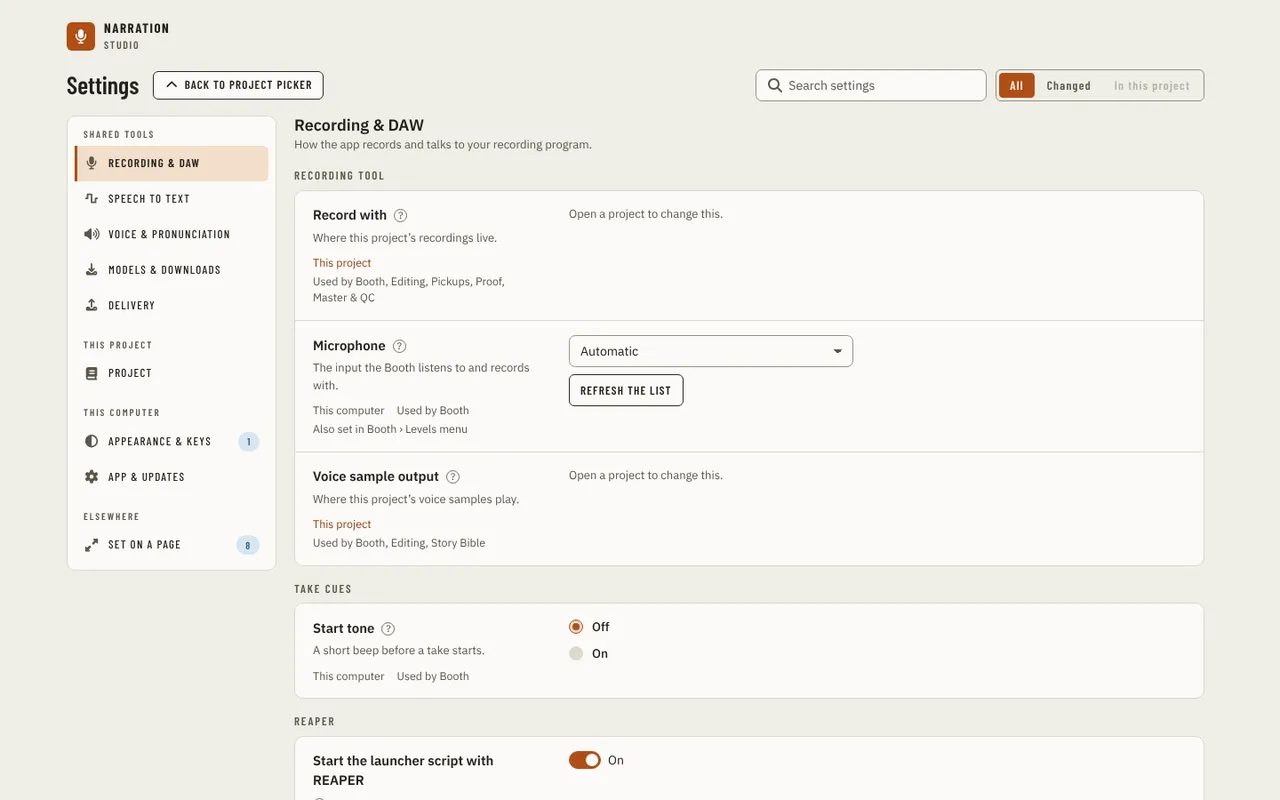
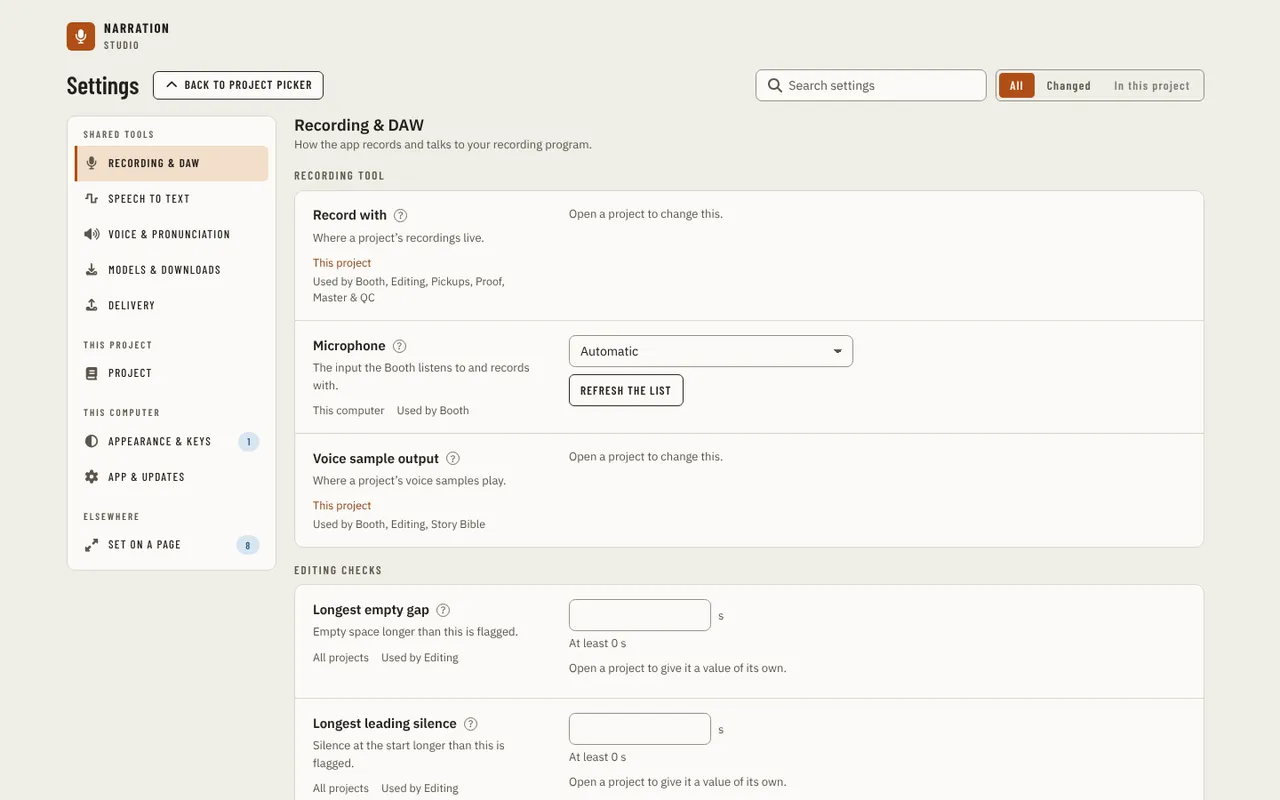
fix(settings): no-project Settings copy no longer assumes a project or a rail
With no project, a project row's description says "a project's", "Also
set in" is left out (every place it names is a page or the shell), the
Project and Delivery intros do not speak of an open project, and a
project-only host field shows its reason with no value.

Refs #3024

Claude-Session: https://claude.ai/code/session_01EBTykhXTzuEgSgWxgiPGDq

diff --git a/src/studio/ui/src/components/settings/page/SettingsPage.noProject.test.tsx b/src/studio/ui/src/components/settings/page/SettingsPage.noProject.test.tsx
@@ -180,18 +180,6 @@ describe('Settings with no project: the page', () => {
     expect(go).toHaveBeenCalledWith('/');
   });
 
-  it('a project row that is a host field is drawn disabled, not hidden', async () => {
-    await renderPage();
-    pick('Project');
-    const row = await waitFor(() => {
-      const found = rowEl('project.wordsPerPage');
-      if (!found) throw new Error('no row');
-      return found;
-    });
-    expect(within(row).getByText(NEEDS_PROJECT_REASON)).toBeTruthy();
-    expect((within(row).getByRole('textbox') as HTMLInputElement).disabled).toBe(true);
-  });
-
   it('a project that is open is unchanged: no reason, controls live', async () => {
     const api = createMockApi();
     await renderPage({ api });
@@ -213,7 +201,7 @@ describe('Settings with no project: the page', () => {
     expect(filter.getAttribute('aria-pressed')).toBe('false');
   });
 
-  it('ties the reason to the disabled control, so a screen reader announces it', async () => {
+  it('a project-only host field is drawn as its reason, with no value that could read as a real one', async () => {
     await renderPage();
     pick('Project');
     const row = await waitFor(() => {
@@ -221,12 +209,31 @@ describe('Settings with no project: the page', () => {
       if (!found) throw new Error('no row');
       return found;
     });
-    const control = within(row).getByRole('textbox');
-    const described = control
-      .getAttribute('aria-describedby')!
-      .split(' ')
-      .map((id) => document.getElementById(id)?.textContent);
-    expect(described).toContain(NEEDS_PROJECT_REASON);
+    expect(within(row).getByText(NEEDS_PROJECT_REASON)).toBeTruthy();
+    expect(within(row).queryByRole('textbox')).toBeNull();
+    expect(row.textContent).not.toContain('250');
+  });
+
+  it("says nothing of the navigation rail, the header or a page's control as another place to set a setting", async () => {
+    await renderPage();
+    pick('Appearance & keys');
+    const row = await waitFor(() => {
+      const found = rowEl('look.theme');
+      if (!found) throw new Error('no row');
+      return found;
+    });
+    expect(row.textContent).not.toMatch(/Also set in/);
+    expect(row.textContent).not.toMatch(/navigation rail/);
+    expect(document.body.textContent).not.toMatch(/navigation rail/);
+  });
+
+  it('introduces the Project and Delivery categories without an open project', async () => {
+    await renderPage();
+    pick('Project');
+    await screen.findByText('Settings for a project. Open a project to change them.');
+    expect(document.body.textContent).not.toContain('The open project’s');
+    pick('Delivery');
+    await screen.findByText('The standard a project is judged against, and the limits it carries.');
   });
 
   it('describes a project row without saying "this project" when none is open', async () => {
@@ -237,6 +244,13 @@ describe('Settings with no project: the page', () => {
       return found;
     });
     expect(row.textContent).not.toContain('Where this project');
+    pick('Project');
+    const manuscript = await waitFor(() => {
+      const found = rowEl('project.manuscript');
+      if (!found) throw new Error('no row');
+      return found;
+    });
+    expect(manuscript.textContent).toContain('The text a project is recorded from.');
     expect(row.textContent).toContain('Where a project’s recordings live.');
   });
 });

diff --git a/src/studio/ui/src/components/settings/row/SettingRowView.tsx b/src/studio/ui/src/components/settings/row/SettingRowView.tsx
@@ -135,12 +135,13 @@ export function SettingRowView({ row, children, flash, wide }: { row: SettingMet
           {changed && <StatusBadge tone="info" label="Changed" />}
         </span>
         <span id={`${uid}d`} className="max-w-[60ch] text-[0.8125rem] text-[var(--text-muted)]">
-          {waiting ? row.desc.replace(/\bthis project(?:’|')s\b/gi, 'a project’s') : row.desc}
+          {waiting ? row.desc.replace(/\bthis project(?:’|')s\b/gi, 'a project’s').replace(/\bthis project\b/gi, 'a project') : row.desc}
         </span>
         <span className="mt-1.5 flex flex-wrap items-center gap-x-3.5 gap-y-0.5 text-[0.78rem] text-[var(--text-muted)]">
           <ScopeBadge row={row} overridden={own !== undefined} />
           <UsedBy row={row} />
-          {row.also && <span>Also set in {row.also}</span>}
+          {/* Every "also" is a page's or the shell's control, which a narrator with no project does not have. */}
+          {row.also && hasProject && <span>Also set in {row.also}</span>}
         </span>
       </div>
       <div className={`flex max-w-full min-w-0 flex-col items-start gap-2 ${wide ? 'col-span-full' : ''}`} data-row-body={wide ? 'wide' : undefined}>
@@ -149,11 +150,7 @@ export function SettingRowView({ row, children, flash, wide }: { row: SettingMet
             {NEEDS_PROJECT_REASON}
           </span>
         )}
-        {waiting && !hasCustom && global ? (
-          <div data-control-line className="flex w-full min-w-0 flex-nowrap items-center gap-1.5">
-            <ValueControl row={row} field={global} id={controlId} value={comp} describedBy={describedBy} onChange={() => undefined} disabled />
-          </div>
-        ) : waiting ? null : hasCustom ? (
+        {waiting ? null : hasCustom ? (
           children
         ) : global ? (
           <>

diff --git a/src/studio/ui/src/components/settings/page/CategoryPane.tsx b/src/studio/ui/src/components/settings/page/CategoryPane.tsx
@@ -3,6 +3,7 @@ import { Disclosure } from '../../primitives/Disclosure';
 import { Panel } from '../../primitives/Panel';
 import { SectionLabel } from '../../primitives/SectionLabel';
 import type { Category, SettingMeta } from '../registry/types';
+import { useHasProject } from '../row/SettingsHost';
 import { PaneTitle } from './PaneTitle';
 import { RowOf } from './RowOf';
 
@@ -53,13 +54,14 @@ export function CategoryPane({
   /** Drawn under the sections and above Advanced (App & updates puts the version there). */
   extra?: React.ReactNode;
 }) {
+  const hasProject = useHasProject();
   const basic = rows.filter((row) => !row.advanced);
   const advanced = rows.filter((row) => row.advanced);
   return (
     <>
       <PaneTitle
         title={category.label}
-        blurb={category.blurb}
+        blurb={hasProject ? category.blurb : (category.blurbWithoutProject ?? category.blurb)}
         action={
           changed > 0 && (
             <Button variant="secondary" size="sm" onClick={onReset}>

diff --git a/src/studio/ui/src/components/settings/registry/types.ts b/src/studio/ui/src/components/settings/registry/types.ts
@@ -37,7 +37,15 @@ export const PAGE_PATH: Record<UsedPage, string> = {
 
 export type CategoryId = 'recording' | 'speech' | 'voice' | 'models' | 'delivery' | 'project' | 'appearance' | 'app' | 'pages';
 
-export type Category = { id: CategoryId; label: string; group: CategoryGroup; icon: IconName; blurb: string };
+export type Category = {
+  id: CategoryId;
+  label: string;
+  group: CategoryGroup;
+  icon: IconName;
+  blurb: string;
+  /** What the category is for while no project is open, when `blurb` speaks of the open project. */
+  blurbWithoutProject?: string;
+};
 export type CategoryGroup = 'Shared tools' | 'This project' | 'This computer';
 
 /**

diff --git a/src/studio/ui/src/components/settings/registry/categories.ts b/src/studio/ui/src/components/settings/registry/categories.ts
@@ -31,6 +31,7 @@ export const CATEGORIES: readonly Category[] = [
     group: 'Shared tools',
     icon: 'delivery',
     blurb: 'The standard this project is judged against, and the limits it carries.',
+    blurbWithoutProject: 'The standard a project is judged against, and the limits it carries.',
   },
   {
     id: 'project',
@@ -38,6 +39,7 @@ export const CATEGORIES: readonly Category[] = [
     group: 'This project',
     icon: 'book',
     blurb: 'The open project’s manuscript, vocabulary, narrator and credits.',
+    blurbWithoutProject: 'Settings for a project. Open a project to change them.',
   },
   {
     id: 'appearance',

diff --git a/docs/guides/using-the-app/settings.md b/docs/guides/using-the-app/settings.md
@@ -32,8 +32,8 @@ the picker.
 - **Check now** and **Download update** under **App & updates** work too. **Install and restart** brings the app back to the
   picker, or to the project it was started with.
 - A **This project** row (Record with, the chapter layout, the project's manuscript and credits, its delivery profile) stays in
-  its place and says **Open a project to change this.** Its control is off. A **Used by** list names the pages without
-  links, and the **In this project** filter is off.
+  its place, described as "a project's", and says **Open a project to change this.** It shows no value, since there is no project to hold one. A **Used by** list names the pages without
+  links, **Also set in** is left out, and the **In this project** filter is off.
 - A **Set on a page** entry that has a computer value and a project value edits the computer's, and says **Open a project to
   set these for a project.** Audacity's backups belong to the project alone and say **Open a project to change this.**
 
